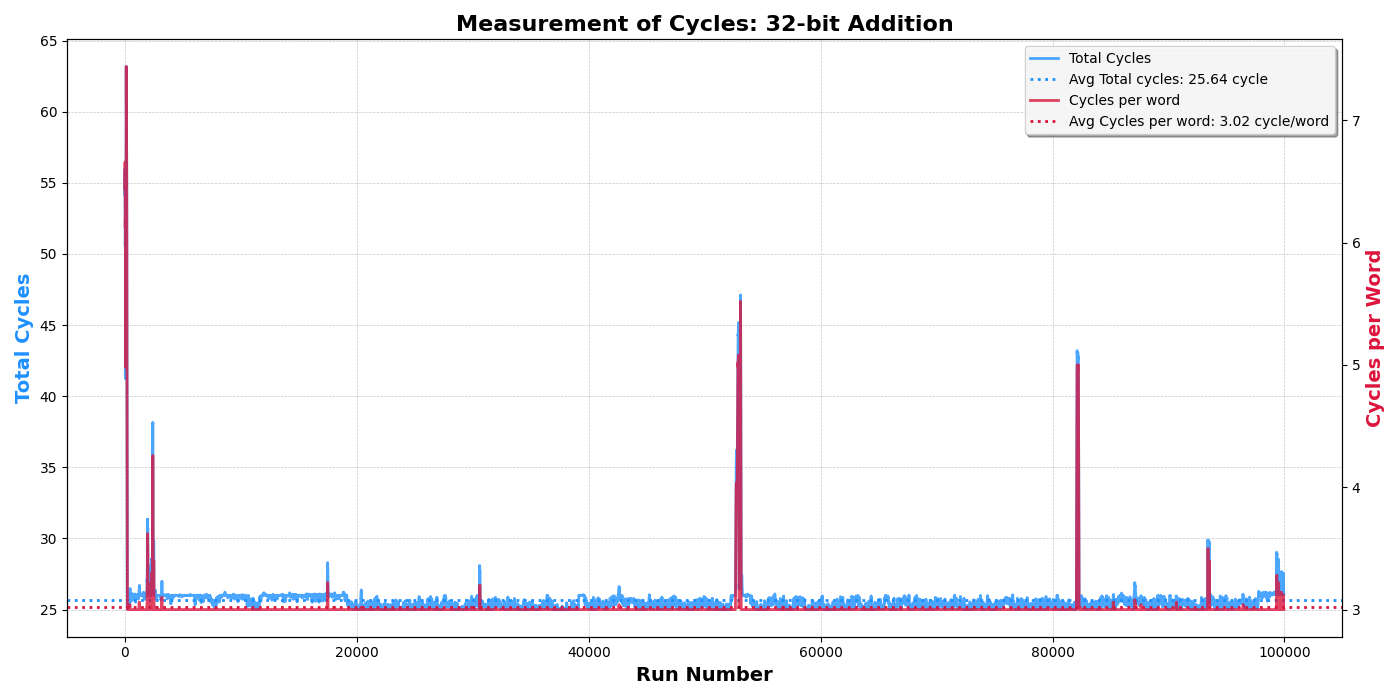
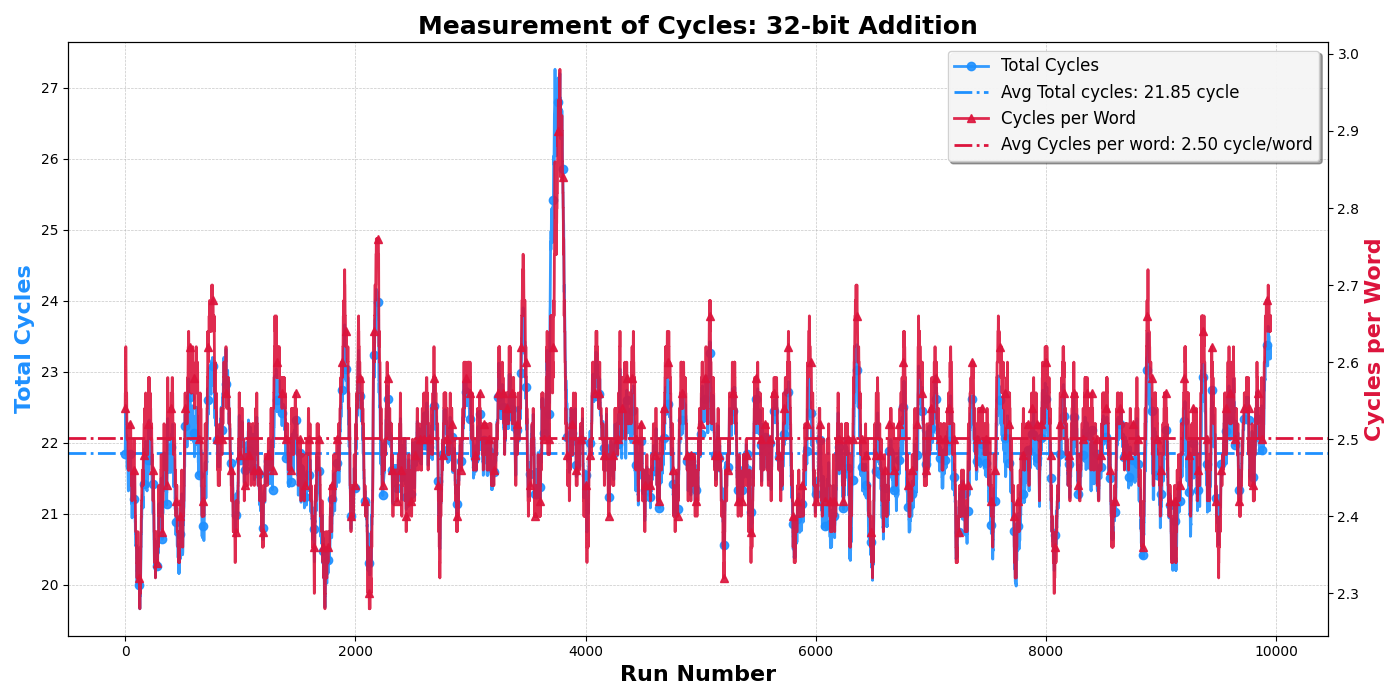
Laptop240219v3 - Addition DONE

Changed region(s): [[0.0, 0.12, 1.0, 0.99], [0.0307, 0.0, 0.9829, 0.24], [0.9521, 0.69, 0.9829, 0.75]]

diff --git a/view/measure_cycle.py b/view/measure_cycle.py
@@ -19,27 +19,27 @@ function2_smooth = np.convolve(function2_speeds, np.ones(window_size)/window_siz
 # Set up the figure and axes for a prettier graph
 fig, ax1 = plt.subplots(figsize=(14, 7), dpi=100)
 
-# Create a second y-axis for the cycles per word
+# Create a second y-axis for the other metric
 ax2 = ax1.twinx()
 
-# Plot the smoothed data with a prettier design
-ax1.plot(function1_smooth, color='dodgerblue', label='Total Cycles', alpha=0.8, linewidth=2)
-ax2.plot(function2_smooth, color='crimson', label='Cycles per word', alpha=0.8, linewidth=2)
+# Plot the smoothed data with distinct designs
+ax1.plot(function1_smooth, color='dodgerblue', label='Total Cycles', alpha=0.9, linewidth=2, linestyle='-', marker='o', markevery=40)
+ax2.plot(function2_smooth, color='crimson', label='Cycles per Word', alpha=0.9, linewidth=2, linestyle='-', marker='^', markevery=40)
 
 # Add horizontal lines to indicate the average values
-ax1.axhline(average_function1, color='dodgerblue', linestyle='dotted', linewidth=2, label=f'Avg Total cycles: {average_function1:.2f} cycle')
-ax2.axhline(average_function2, color='crimson', linestyle='dotted', linewidth=2, label=f'Avg Cycles per word: {average_function2:.2f} cycle/word')
+ax1.axhline(average_function1, color='dodgerblue', linestyle='dashdot', linewidth=2, label=f'Avg Total cycles: {average_function1:.2f} cycle')
+ax2.axhline(average_function2, color='crimson', linestyle='dashdot', linewidth=2, label=f'Avg Cycles per word: {average_function2:.2f} cycle/word')
 
 # Setting labels, titles, and legends
-ax1.set_ylabel('Total Cycles', fontsize=14, fontweight='bold', color='dodgerblue')
-ax2.set_ylabel('Cycles per Word', fontsize=14, fontweight='bold', color='crimson')
-ax1.set_xlabel('Run Number', fontsize=14, fontweight='bold')
-ax1.set_title('Measurement of Cycles: 32-bit Addition', fontsize=16, fontweight='bold')
+ax1.set_ylabel('Total Cycles', fontsize=16, fontweight='bold', color='dodgerblue')
+ax2.set_ylabel('Cycles per Word', fontsize=16, fontweight='bold', color='crimson')
+ax1.set_xlabel('Run Number', fontsize=16, fontweight='bold')
+ax1.set_title('Measurement of Cycles: 64-bit Addition', fontsize=18, fontweight='bold')
 
 # Combine legends
 lines, labels = ax1.get_legend_handles_labels()
 lines2, labels2 = ax2.get_legend_handles_labels()
-ax1.legend(lines + lines2, labels + labels2, frameon=True, framealpha=0.9, shadow=True, fancybox=True)
+ax1.legend(lines + lines2, labels + labels2, loc='upper right', frameon=True, framealpha=0.9, shadow=True, fancybox=True, fontsize=12)
 
 # Customizing the grid and layout
 ax1.grid(True, linestyle='--', linewidth=0.5, alpha=0.7)

diff --git a/src/secp256r1_validation.c b/src/secp256r1_validation.c
@@ -64,12 +64,11 @@ void create_rspFile(const char* rspFileName, const char* reqFileName1, const cha
 
     word data1[SIZE] = { 0x00, };
     word data2[SIZE] = { 0x00, };
-    word result[SIZE] = { 0x00, };
-    
+        
     // Read the source file line by line
     while (fgets(line1, bufsize, reqFile1) && fgets(line2, bufsize, reqFile2)) { 
-        
         if (!is_blank_line(line1) && !is_blank_line(line2)) {
+            word result[SIZE] = { 0x00, };
             stringToWord(data1, line1);
             stringToWord(data2, line2);
             addition_p256(result, data1, data2);
@@ -77,10 +76,12 @@ void create_rspFile(const char* rspFileName, const char* reqFileName1, const cha
 #ifdef IS_32_BIT_ENV
                 fprintf(rspFile, "%08X", result[i]);
 #else
-                fprintf(rspFile, "%16lX", result[i]);
+                fprintf(rspFile, "%016lX", result[i]);
 #endif
             }
             fputs("\n\n", rspFile);
+        } else {
+            continue;
         }
     }
     

diff --git a/src/main.c b/src/main.c
@@ -19,13 +19,17 @@ int main(void) {
     addition_p256(dst, src1, src2);
     // printData(dst);
 
-    // addition_p256_test();
+    addition_p256_test();
 
-    u64 cycles;
-    for (u32 i = 0; i < 100000; i++) {
-        cycles = measure_cycles(addition_p256, dst, src1, src2);
-        printf("%" PRIu64 "\n", cycles);
-        printf("%" PRIu64 "\n", cycles / SIZE);
-    }
+    // u64 cycles;
+    // for (u32 i = 0; i < 12000; i++) {
+    //     assign_rand(src1, SIZE);
+    //     assign_rand(src2, SIZE);
+    //     cycles = measure_cycles(addition_p256, dst, src1, src2);
+    //     if (i >= 1000 && i < 11000) {
+    //         printf("%" PRIu64 "\n", cycles);
+    //         printf("%llu\n", (long long)cycles / (long long)SIZE);
+    //     }
+    // }
     return 0;
 }

diff --git a/include/secp256r1_utils.h b/include/secp256r1_utils.h
@@ -3,6 +3,21 @@
 #ifndef _SECP256R1_UTILS_H
 #define _SECP256R1_UTILS_H
 
+static inline void assign_rand(word* dst, size_t wordLen) {
+    // Cast the destination pointer to a pointer to u8 (unsigned 8-bit integer)
+    u8* p = (u8*)dst;
+    
+    // Calculate the total number of bytes to be filled
+    u32 cnt = wordLen * sizeof(word);
+
+    // Loop until all bytes are filled
+    while (cnt > 0) {
+        *p = rand() & 0xff; // Assign a random byte (0 to 255) to the current location pointed by p
+        p++;                // Move to the next byte
+        cnt--;
+    }
+}
+
 void stringToWord(word* wordArray, const char* hexString);
 void printData(word* data);
 void printTestData(word* data);

diff --git a/src/secp256r1_bigint.c b/src/secp256r1_bigint.c
@@ -17,12 +17,12 @@ void addition_core(word* epsilon, word* dst, const word* src1, const word* src2)
 
 void addition_p256(word* dst, const word* src1, const word* src2) {
 	word epsilon = 0;
-	word buffer[SIZE];
+	word buffer[SIZE] = { 0x00, };
 	addition_core(&epsilon, buffer, src1, src2);
 	if (epsilon) {
 		epsilon = 0;
 		addition_core(&epsilon, dst, buffer, PRIME_INVERSE);
-		return;
+	} else {
+		memcpy(dst, buffer, SIZE * sizeof(word));
 	}
-	memcpy(dst, buffer, SIZE * 4);
 }

diff --git a/include/secp256r1_bigint.h b/include/secp256r1_bigint.h
@@ -19,8 +19,8 @@ static const field PRIME = {
 	0x0000000000000000U, 0xFFFFFFFF00000001U
 };
 static const field PRIME_INVERSE = {
-	0x0000000000000000U, 0xFFFFFFFF00000000U,
-	0xFFFFFFFFFFFFFFFFU, 0x00000000FFFFFFFFU
+	0x0000000000000001U, 0xFFFFFFFF00000000U,
+	0xFFFFFFFFFFFFFFFFU, 0x00000000FFFFFFFEU
 };
 #endif
 

diff --git a/include/secp256r1_validation.h b/include/secp256r1_validation.h
@@ -4,7 +4,7 @@
 #ifndef _SECP256R1_VALIDATION_H
 #define _SECP256R1_VALIDATION_H
 
-#define MAX_LINE_LENGTH 128
+#define MAX_LINE_LENGTH 1024
 
 void printProgressBar(i32 current, i32 total);
 void parseHexLine(word* dst, const char* src);

diff --git a/README.md b/README.md
@@ -1,2 +1,13 @@
 # Elliptic_Curve_Crypto
-Implementation for ECC 
+
+**- High-Performance Implementation for ECC -**
+
+---
+
+## NIST P-256 (secp256r1)
+
+**My Performance**
+| Operation \ Platform | 32-bit | 64-bit |
+| --- | --- | --- |
+| Addition (Total) | 21.85 cycle | 15.14 cycle |
+| Addition (per Word) | 2.5 cycle/word | 3.14 cycle/word |
